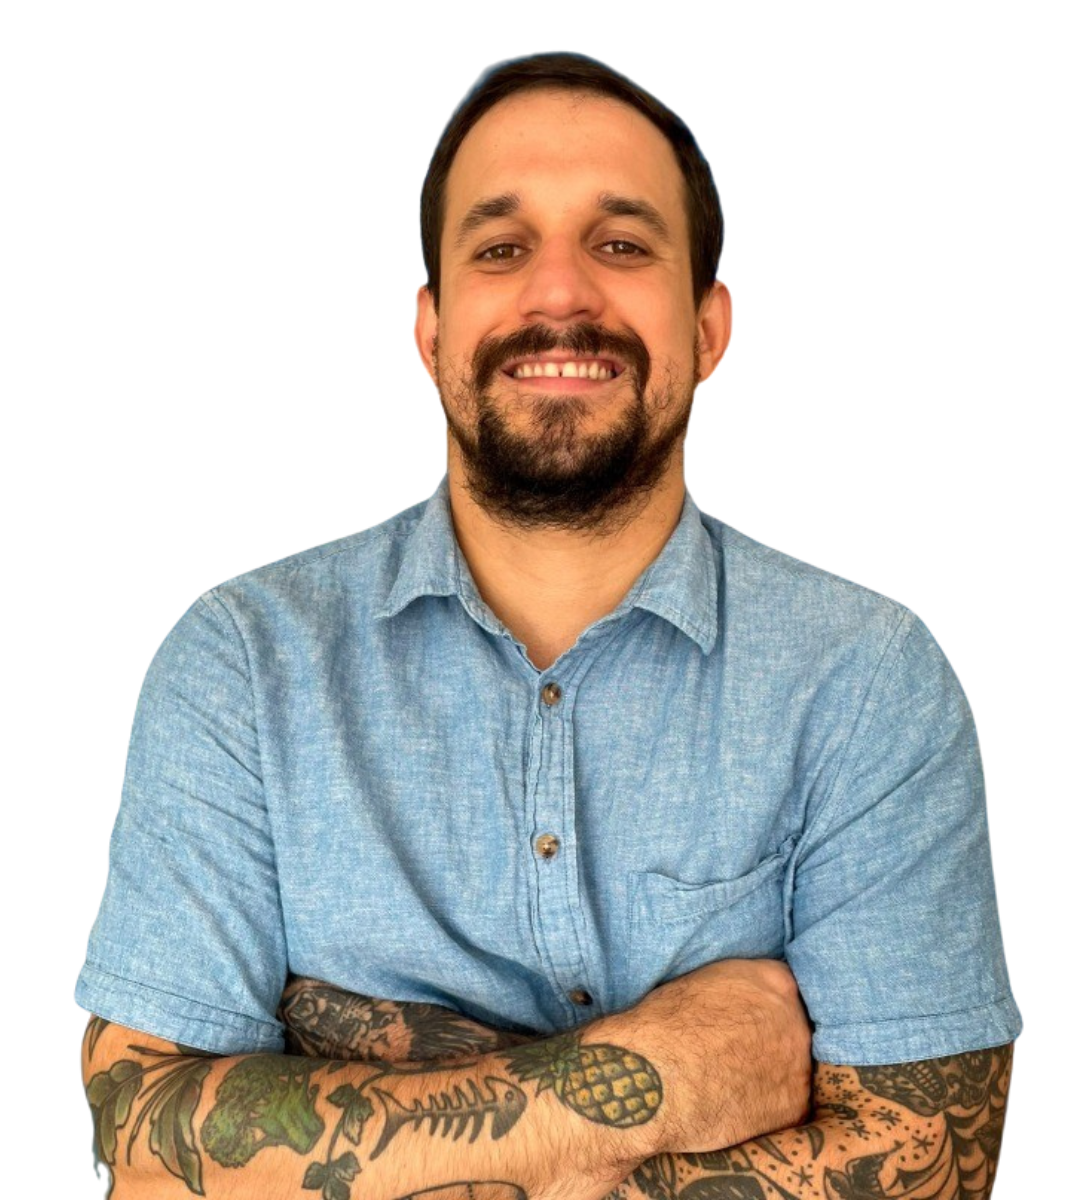
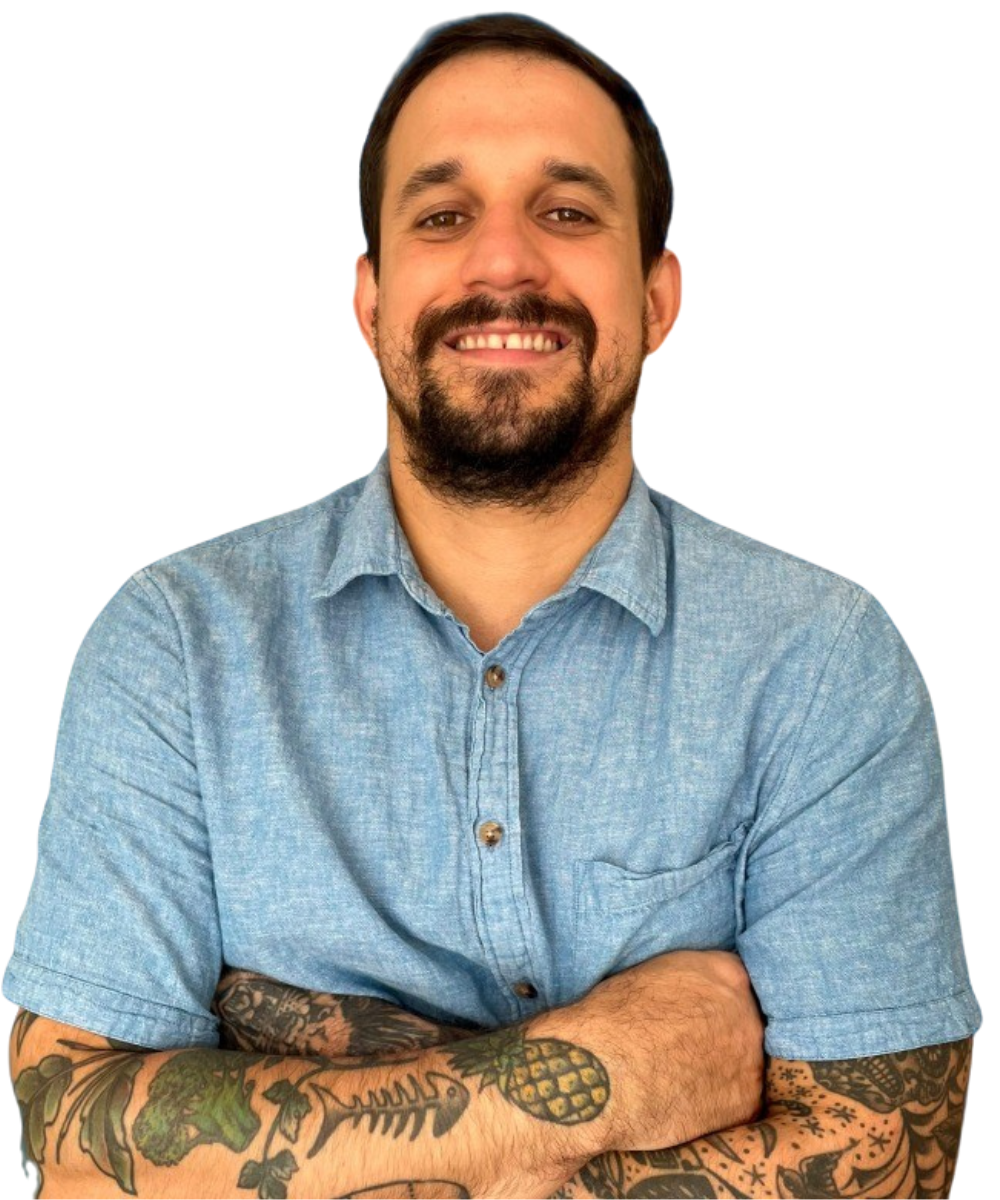
style(Home): Adicionando responsivo! FALTA TERMINAR

diff --git a/src/pages/Home/Home.jsx b/src/pages/Home/Home.jsx
@@ -21,13 +21,13 @@ const Home = () => {
         <div className="home">
             <Container>
                 <Row>
-                    <Col>
+                    <Col xs={12} md={4}>
                         <h1 className="title">
                             Eu sou{' '}
                             <span className="name-color">William Dias</span>
                         </h1>
                     </Col>
-                    <Col>
+                    <Col xs={12} md={4}>
                         <div
                             className="image-container"
                             onMouseEnter={handleMouseEnter}
@@ -45,7 +45,7 @@ const Home = () => {
                             ></div>
                         </div>
                     </Col>
-                    <Col>
+                    <Col xs={12} md={4}>
                         <p className="subtitle">Desenvolvedor FrontEnd</p>
                     </Col>
                 </Row>

diff --git a/src/pages/Home/Home.css b/src/pages/Home/Home.css
@@ -1,8 +1,5 @@
 .home {
-    display: flex;
-    height: 85vh;
-    align-items: center;
-    justify-content: center;
+    padding-top: 50px;
 }
 
 .subtitle {
@@ -14,7 +11,8 @@
 }
 
 .myPicture {
-    max-width: 550px;
+    max-width: 350px;
+
     z-index: 2;
     position: relative;
     pointer-events: none;
